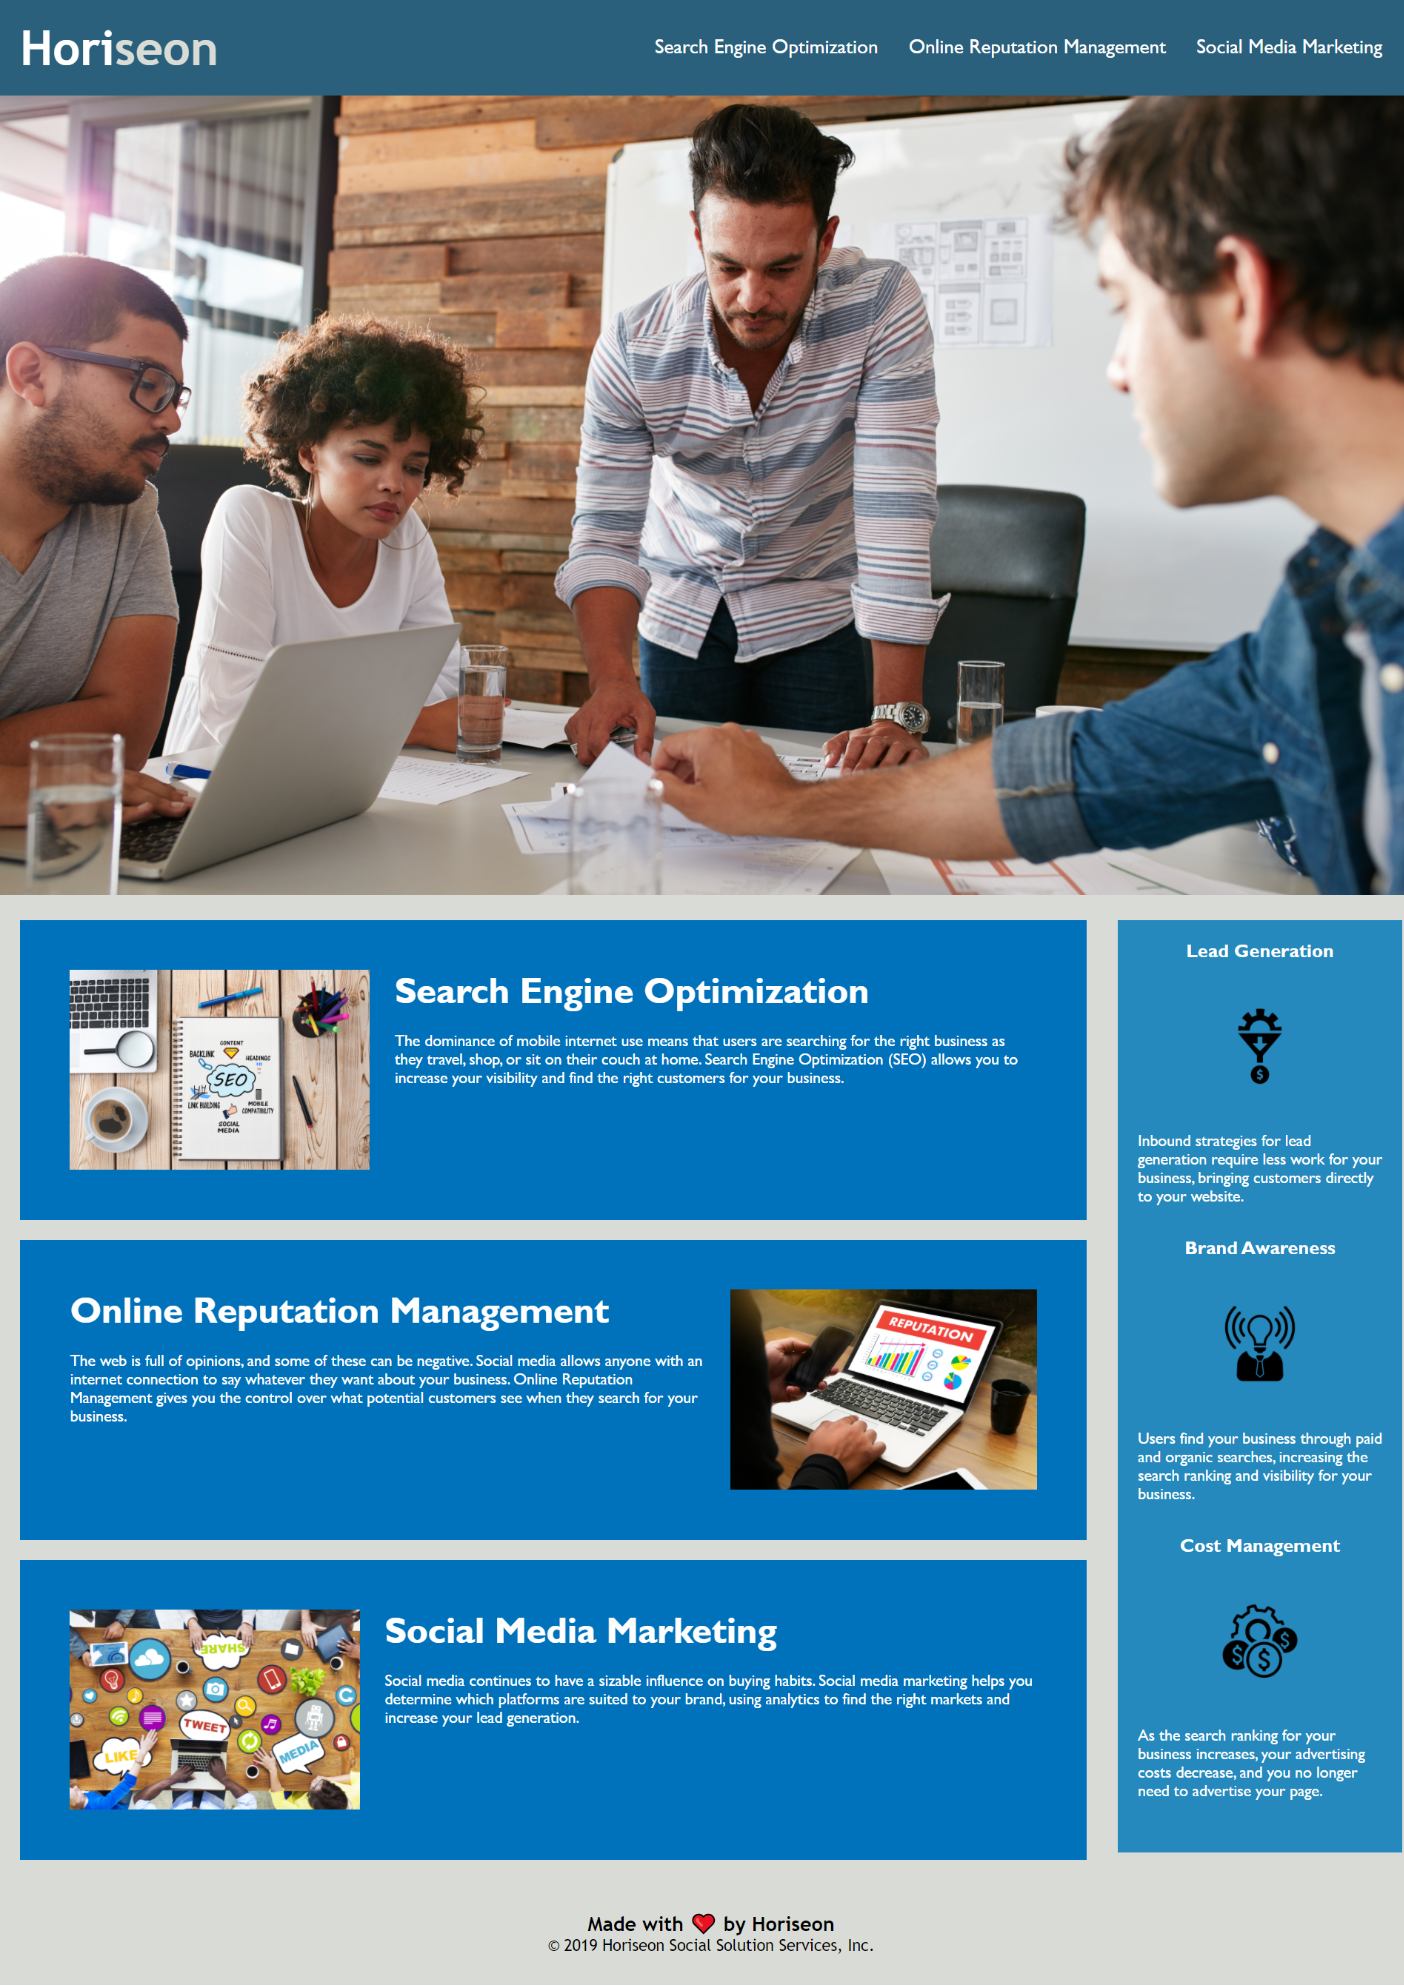
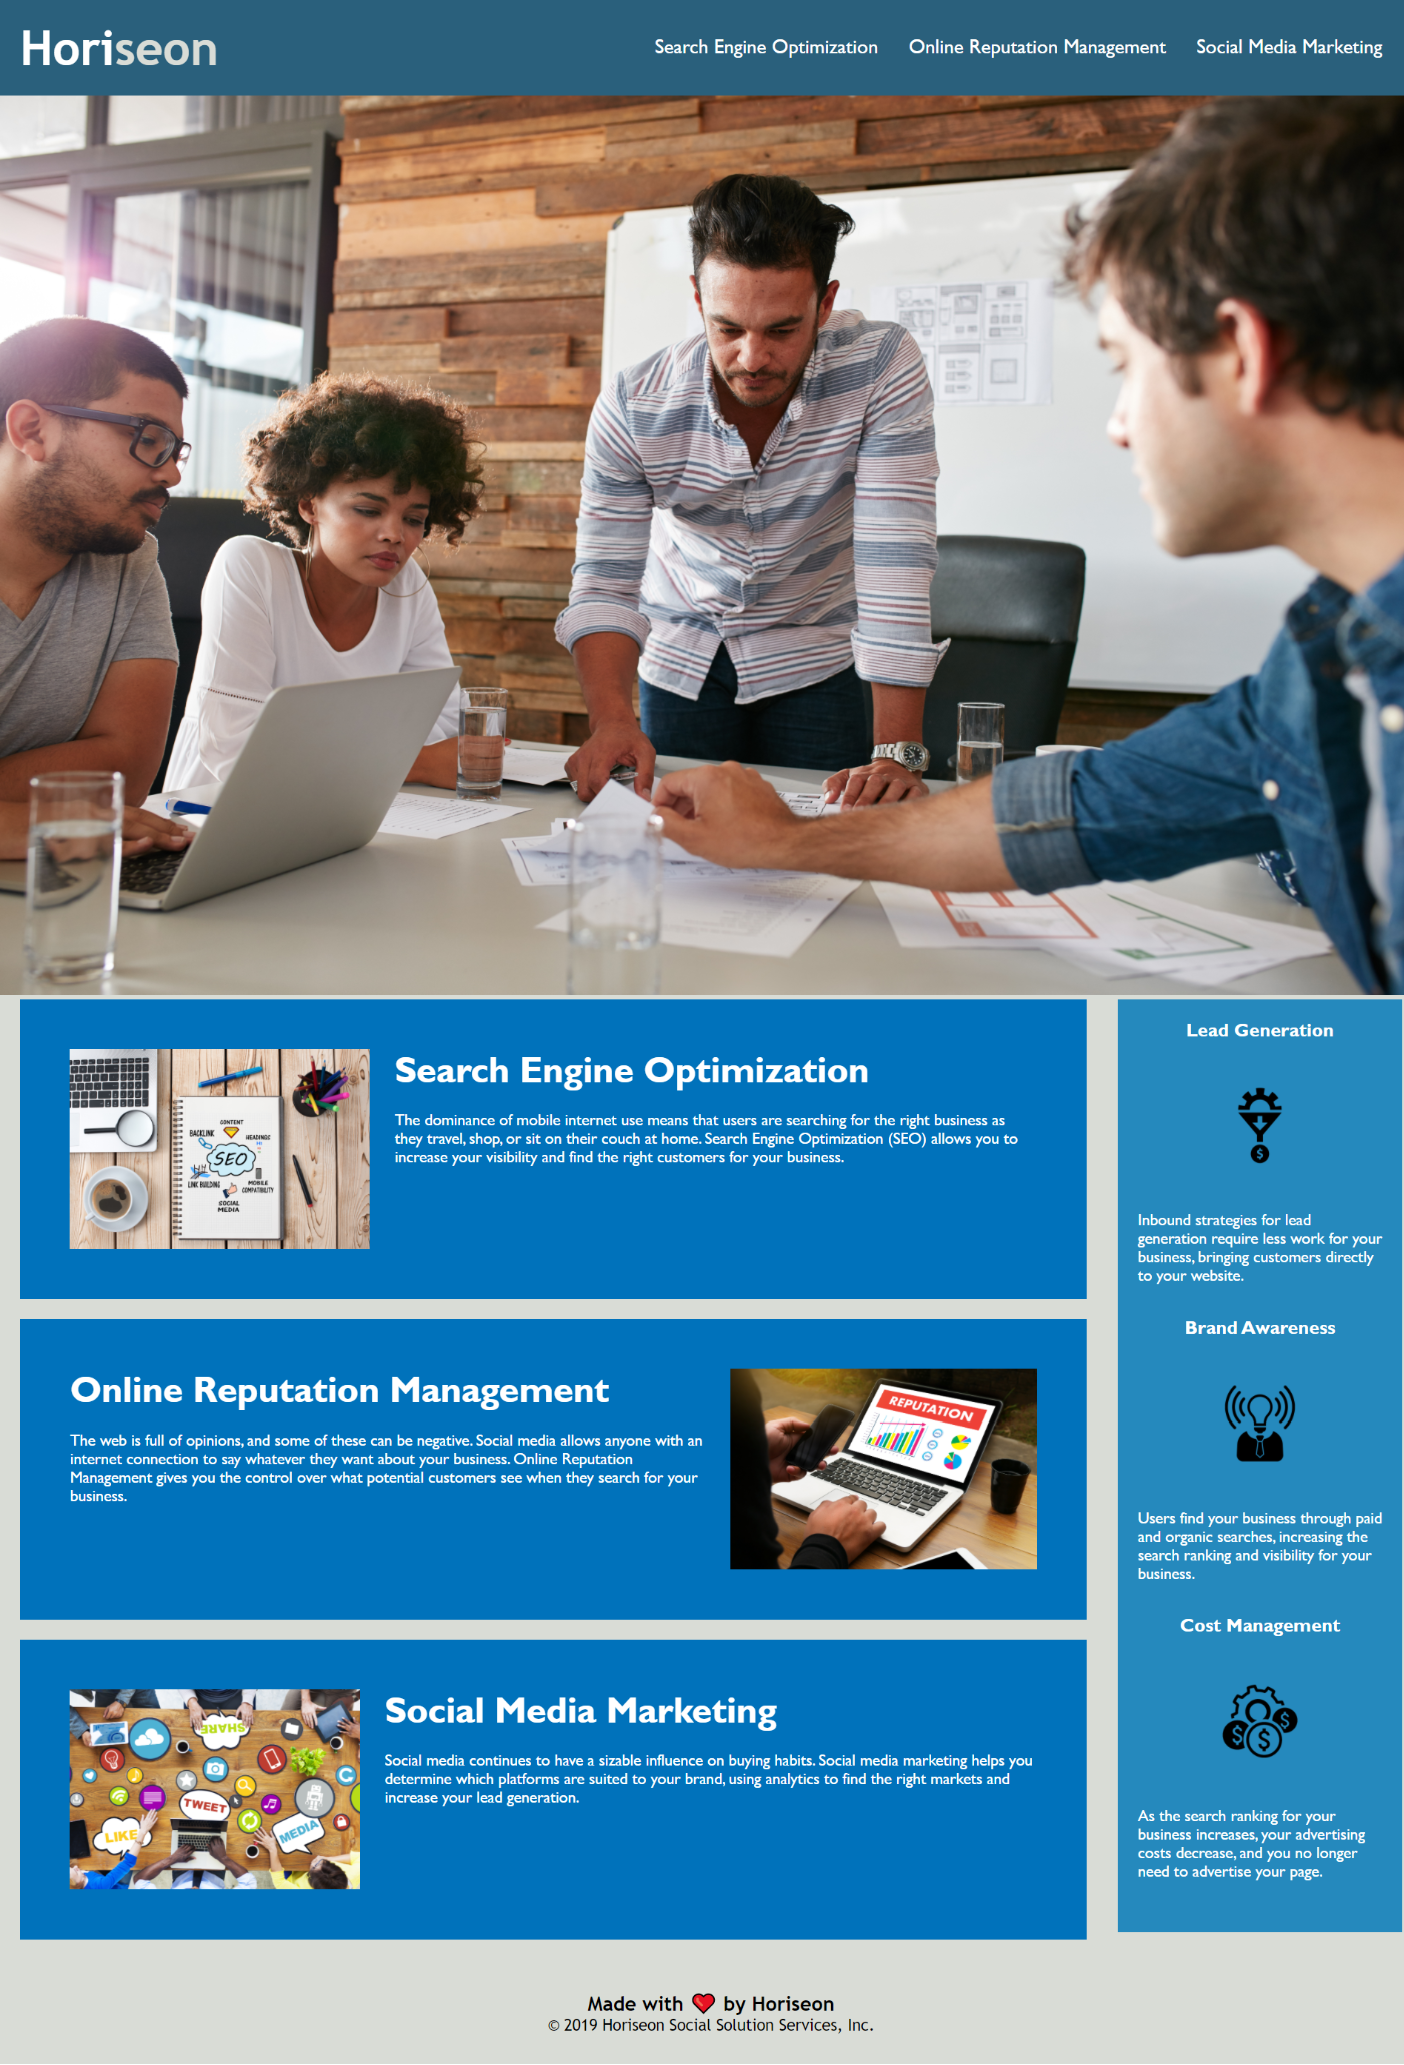
updated Index.html and style.css

diff --git a/assets/css/style.css b/assets/css/style.css
@@ -63,17 +63,13 @@ p {
     font-size: 16px;
 }
 
-/* Adding the image to the figure tag and applying the style */ 
-figure {
-    height: 800px;
-    width: 100%;
-    margin-bottom: 25px;
-    overflow: hidden;
-    background-image: url("../Images/digital-marketing-meeting.jpg");
-    background-size: cover;
-    background-position: center;
-}
+/* Adding the image to the img tag and applying the style */ 
 
+.figure
+{
+    height: 900px;
+    width: 100%;
+}
 /* In the index.html changing the floating behavior to left for the article with the id search-engine-optimization*/
 .float-left {
     float: left;

diff --git a/index.html b/index.html
@@ -30,11 +30,8 @@
             </ul>
         </section>
     </header>
-    <!--Section for the Digital marketing meeting-->
-    <figure>
-        <!--Adding the image to Background of the site-->
-    </figure>
-
+        <!--Adding the image of Digital marketing meeting to Background of the site-->
+        <img class="figure" src="assets/Images/digital-marketing-meeting.jpg" alt="Degital marketing meeting"/>
     <!--Section for creating Content of the site-->
     <section class="content">
         <!--Arcticle for the Search engine optimization-->
